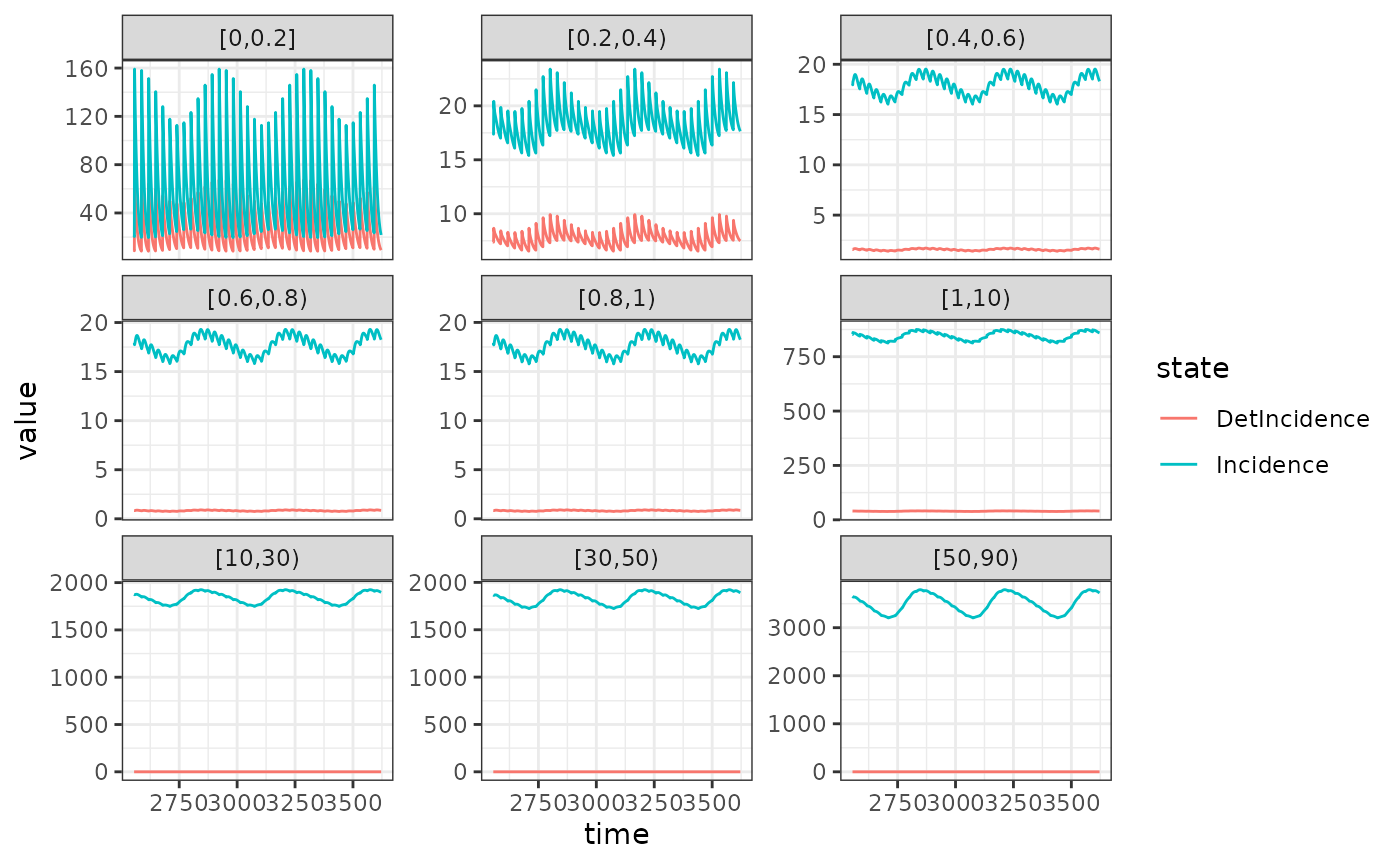
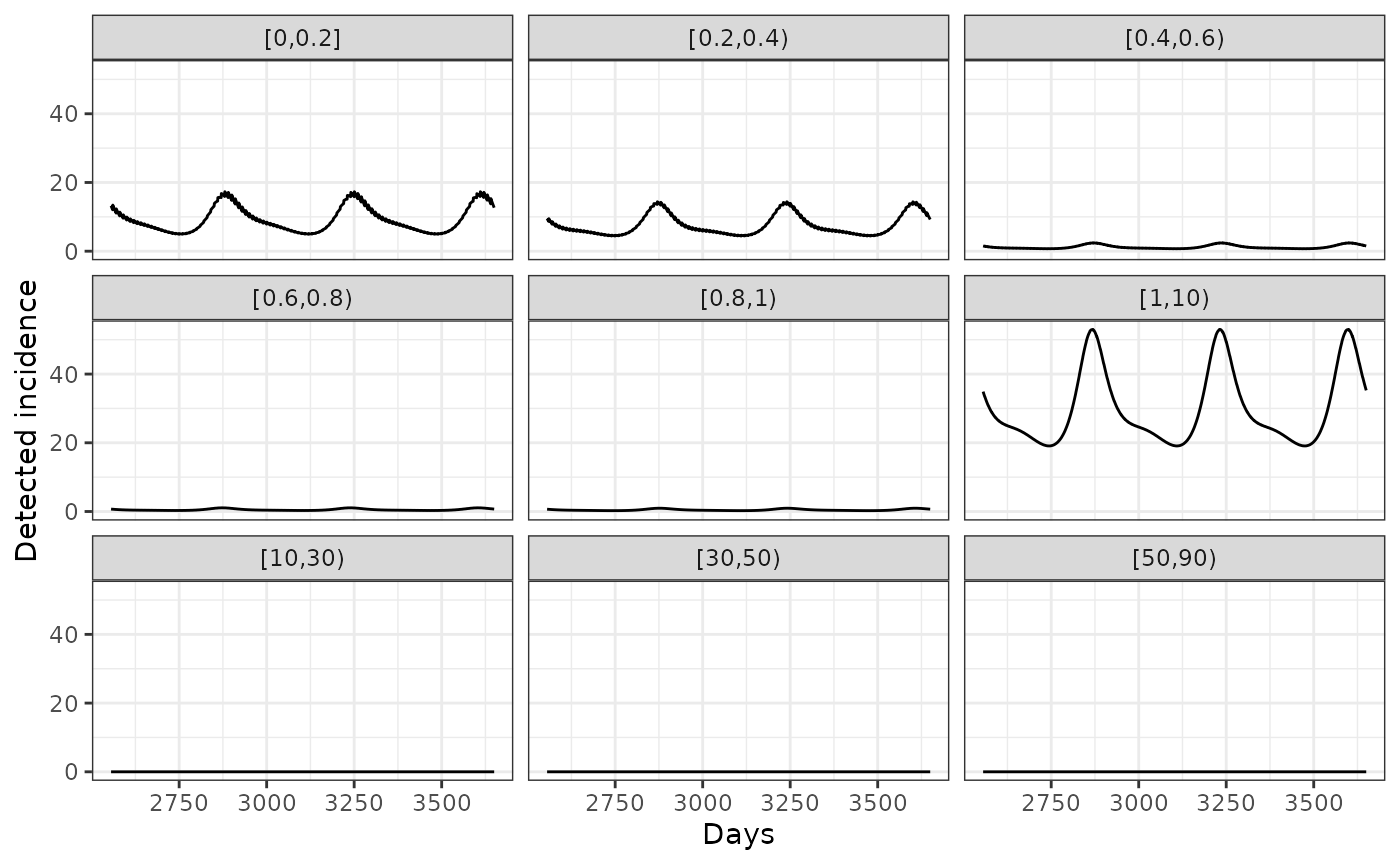
Deploying to gh-pages from @ IsaacStopard/RSVsim@35414e66334edd08820dda4a77bebf6a99fc415f 🚀

diff --git a/articles/Introduction.html b/articles/Introduction.html
@@ -125,8 +125,8 @@ contact data from and the age limits for the age groupings.</p>
 <span>  <span class="fu">tidyr</span><span class="fu">::</span><span class="fu"><a href="https://tidyr.tidyverse.org/reference/pivot_longer.html" class="external-link">pivot_longer</a></span><span class="op">(</span><span class="op">-</span><span class="va">age_y</span>, names_to <span class="op">=</span> <span class="st">"age_x"</span>, values_to <span class="op">=</span> <span class="st">"mean_contacts"</span><span class="op">)</span></span>
 <span></span>
 <span><span class="fu"><a href="https://ggplot2.tidyverse.org/reference/ggplot.html" class="external-link">ggplot</a></span><span class="op">(</span>data <span class="op">=</span> <span class="va">matrix_mean_plot</span>, </span>
-<span><span class="fu"><a href="https://ggplot2.tidyverse.org/reference/aes.html" class="external-link">aes</a></span><span class="op">(</span>x <span class="op">=</span> <span class="va">age_x</span>, y <span class="op">=</span> <span class="va">age_y</span>, fill <span class="op">=</span> <span class="va">mean_contacts</span><span class="op">)</span><span class="op">)</span> <span class="op">+</span> </span>
-<span><span class="fu"><a href="https://ggplot2.tidyverse.org/reference/geom_tile.html" class="external-link">geom_tile</a></span><span class="op">(</span><span class="op">)</span> <span class="op">+</span></span>
+<span>       <span class="fu"><a href="https://ggplot2.tidyverse.org/reference/aes.html" class="external-link">aes</a></span><span class="op">(</span>x <span class="op">=</span> <span class="va">age_x</span>, y <span class="op">=</span> <span class="va">age_y</span>, fill <span class="op">=</span> <span class="va">mean_contacts</span><span class="op">)</span><span class="op">)</span> <span class="op">+</span> </span>
+<span>  <span class="fu"><a href="https://ggplot2.tidyverse.org/reference/geom_tile.html" class="external-link">geom_tile</a></span><span class="op">(</span><span class="op">)</span> <span class="op">+</span></span>
 <span>  <span class="fu"><a href="https://ggplot2.tidyverse.org/reference/labs.html" class="external-link">xlab</a></span><span class="op">(</span><span class="st">"Age"</span><span class="op">)</span> <span class="op">+</span> <span class="fu"><a href="https://ggplot2.tidyverse.org/reference/labs.html" class="external-link">ylab</a></span><span class="op">(</span><span class="st">"Age"</span><span class="op">)</span> <span class="op">+</span> <span class="fu"><a href="https://ggplot2.tidyverse.org/reference/ggtheme.html" class="external-link">theme_bw</a></span><span class="op">(</span><span class="op">)</span></span></code></pre></div>
 <p><img src="Introduction_files/figure-html/unnamed-chunk-2-1.png" width="700"></p>
 </div>
@@ -137,7 +137,7 @@ contact data from and the age limits for the age groupings.</p>
 function. The parameters can be changed by using the overrides
 argument.</p>
 <div class="sourceCode" id="cb3"><pre class="downlit sourceCode r">
-<code class="sourceCode R"><span><span class="va">parameters</span> <span class="op">&lt;-</span> <span class="fu">RSVsim</span><span class="fu">::</span><span class="fu"><a href="../reference/get_parameters.html">get_parameters</a></span><span class="op">(</span>overrides <span class="op">=</span> <span class="fu"><a href="https://rdrr.io/r/base/list.html" class="external-link">list</a></span><span class="op">(</span><span class="st">"b0"</span> <span class="op">=</span> <span class="fl">1</span><span class="op">)</span>, </span>
+<code class="sourceCode R"><span><span class="va">parameters</span> <span class="op">&lt;-</span> <span class="fu">RSVsim</span><span class="fu">::</span><span class="fu"><a href="../reference/get_parameters.html">get_parameters</a></span><span class="op">(</span>overrides <span class="op">=</span> <span class="fu"><a href="https://rdrr.io/r/base/list.html" class="external-link">list</a></span><span class="op">(</span><span class="st">"b0"</span> <span class="op">=</span> <span class="fl">0.15</span><span class="op">)</span>, </span>
 <span>                                     contact_population_list <span class="op">=</span> <span class="va">contact_population_list</span><span class="op">)</span></span></code></pre></div>
 </div>
 <div class="section level2">
@@ -149,28 +149,45 @@ time the smallest age group has completed the time within that age
 group. If no initial conditions are given it is assumed there is one
 percent prevalence in the primary infection compartment and everyone
 else is susceptible to primary infection. All new borns are assumed to
-be susceptible to their primary infection.</p>
+be susceptible to their primary infection. Below we plot the simulated
+number of people that are susceptible and infected, with the line type
+indicating whether the infection is primary or secondary.</p>
 <div class="sourceCode" id="cb4"><pre class="downlit sourceCode r">
 <code class="sourceCode R"><span><span class="va">out</span> <span class="op">&lt;-</span> <span class="fu">RSVsim</span><span class="fu">::</span><span class="fu"><a href="../reference/run_model.html">run_model</a></span><span class="op">(</span>parameters <span class="op">=</span> <span class="va">parameters</span>,</span>
 <span>                         max_t <span class="op">=</span> <span class="fl">3650</span>, <span class="co"># maximum time to run the model for</span></span>
-<span>                         cohort_step_size <span class="op">=</span> <span class="fl">365.25</span><span class="op">/</span><span class="fl">12</span>,</span>
+<span>                         cohort_step_size <span class="op">=</span> <span class="fl">10</span>, <span class="co"># time at which to age people</span></span>
 <span>                         dt <span class="op">=</span> <span class="fl">0.5</span>, <span class="co"># time step to get model outputs for</span></span>
 <span>                         init_conds <span class="op">=</span> <span class="cn">NULL</span><span class="op">)</span></span>
 <span></span>
-<span><span class="fu"><a href="https://ggplot2.tidyverse.org/reference/ggplot.html" class="external-link">ggplot</a></span><span class="op">(</span>data <span class="op">=</span> <span class="va">out</span> <span class="op">|&gt;</span> <span class="fu">dplyr</span><span class="fu">::</span><span class="fu"><a href="https://dplyr.tidyverse.org/reference/filter.html" class="external-link">filter</a></span><span class="op">(</span><span class="va">state</span> <span class="op"><a href="https://rdrr.io/r/base/match.html" class="external-link">%in%</a></span> <span class="fu"><a href="https://rdrr.io/r/base/c.html" class="external-link">c</a></span><span class="op">(</span><span class="st">"Sp"</span>, <span class="st">"Ip"</span>, <span class="st">"Ss"</span>, <span class="st">"Is"</span><span class="op">)</span> <span class="op">&amp;</span> <span class="va">time</span> <span class="op">&gt;</span> <span class="op">(</span><span class="fl">3650</span> <span class="op">-</span> <span class="fl">365</span> <span class="op">*</span> <span class="fl">3</span><span class="op">)</span><span class="op">)</span>, </span>
-<span>       <span class="fu"><a href="https://ggplot2.tidyverse.org/reference/aes.html" class="external-link">aes</a></span><span class="op">(</span>x <span class="op">=</span> <span class="va">time</span>, y <span class="op">=</span> <span class="va">value</span>, col <span class="op">=</span> <span class="va">state</span><span class="op">)</span><span class="op">)</span> <span class="op">+</span></span>
-<span>  <span class="fu"><a href="https://ggplot2.tidyverse.org/reference/geom_path.html" class="external-link">geom_line</a></span><span class="op">(</span><span class="op">)</span> <span class="op">+</span></span>
-<span>  <span class="fu"><a href="https://ggplot2.tidyverse.org/reference/facet_wrap.html" class="external-link">facet_wrap</a></span><span class="op">(</span><span class="op">~</span><span class="va">age_chr</span>, scales <span class="op">=</span> <span class="st">"free_y"</span><span class="op">)</span> <span class="op">+</span> <span class="fu"><a href="https://ggplot2.tidyverse.org/reference/ggtheme.html" class="external-link">theme_bw</a></span><span class="op">(</span><span class="op">)</span></span></code></pre></div>
+<span><span class="fu"><a href="https://ggplot2.tidyverse.org/reference/ggplot.html" class="external-link">ggplot</a></span><span class="op">(</span>data <span class="op">=</span> <span class="va">out</span> <span class="op">|&gt;</span> <span class="fu">dplyr</span><span class="fu">::</span><span class="fu"><a href="https://dplyr.tidyverse.org/reference/filter.html" class="external-link">filter</a></span><span class="op">(</span><span class="va">time</span> <span class="op">&gt;</span> <span class="op">(</span><span class="fl">3650</span> <span class="op">-</span> <span class="fl">365</span> <span class="op">*</span> <span class="fl">3</span><span class="op">)</span><span class="op">)</span><span class="op">)</span> <span class="op">+</span></span>
+<span>  <span class="fu"><a href="https://ggplot2.tidyverse.org/reference/geom_path.html" class="external-link">geom_line</a></span><span class="op">(</span><span class="fu"><a href="https://ggplot2.tidyverse.org/reference/aes.html" class="external-link">aes</a></span><span class="op">(</span>x <span class="op">=</span> <span class="va">time</span>, y <span class="op">=</span> <span class="va">Sp</span><span class="op">)</span>, linetype <span class="op">=</span> <span class="fl">1</span><span class="op">)</span> <span class="op">+</span></span>
+<span>  <span class="fu"><a href="https://ggplot2.tidyverse.org/reference/geom_path.html" class="external-link">geom_line</a></span><span class="op">(</span><span class="fu"><a href="https://ggplot2.tidyverse.org/reference/aes.html" class="external-link">aes</a></span><span class="op">(</span>x <span class="op">=</span> <span class="va">time</span>, y <span class="op">=</span> <span class="va">Ss</span><span class="op">)</span>, linetype <span class="op">=</span> <span class="fl">2</span><span class="op">)</span> <span class="op">+</span></span>
+<span>  <span class="fu"><a href="https://ggplot2.tidyverse.org/reference/geom_path.html" class="external-link">geom_line</a></span><span class="op">(</span><span class="fu"><a href="https://ggplot2.tidyverse.org/reference/aes.html" class="external-link">aes</a></span><span class="op">(</span>x <span class="op">=</span> <span class="va">time</span>, y <span class="op">=</span> <span class="va">Ip</span><span class="op">)</span>, col <span class="op">=</span> <span class="st">"skyblue"</span>, linetype <span class="op">=</span> <span class="fl">1</span><span class="op">)</span> <span class="op">+</span></span>
+<span>  <span class="fu"><a href="https://ggplot2.tidyverse.org/reference/geom_path.html" class="external-link">geom_line</a></span><span class="op">(</span><span class="fu"><a href="https://ggplot2.tidyverse.org/reference/aes.html" class="external-link">aes</a></span><span class="op">(</span>x <span class="op">=</span> <span class="va">time</span>, y <span class="op">=</span> <span class="va">Is</span><span class="op">)</span>, col <span class="op">=</span> <span class="st">"skyblue"</span>, linetype <span class="op">=</span> <span class="fl">2</span><span class="op">)</span> <span class="op">+</span></span>
+<span>  <span class="fu"><a href="https://ggplot2.tidyverse.org/reference/facet_wrap.html" class="external-link">facet_wrap</a></span><span class="op">(</span><span class="op">~</span><span class="va">age_chr</span>, scales <span class="op">=</span> <span class="st">"free_y"</span><span class="op">)</span> <span class="op">+</span> <span class="fu"><a href="https://ggplot2.tidyverse.org/reference/ggtheme.html" class="external-link">theme_bw</a></span><span class="op">(</span><span class="op">)</span> <span class="op">+</span></span>
+<span>  <span class="fu"><a href="https://ggplot2.tidyverse.org/reference/labs.html" class="external-link">xlab</a></span><span class="op">(</span><span class="st">"Days"</span><span class="op">)</span> <span class="op">+</span></span>
+<span>  <span class="fu"><a href="https://ggplot2.tidyverse.org/reference/labs.html" class="external-link">ylab</a></span><span class="op">(</span><span class="st">"Number of susceptible (black) or infected (blue) people"</span><span class="op">)</span></span></code></pre></div>
 <p><img src="Introduction_files/figure-html/unnamed-chunk-4-1.png" width="700"></p>
-<p>The incidence and detected incidence are also calculated.
+<p>The incidence, detected incidence and prevalence are also calculated.
 Age-specific detection probabilities are used, and in the default
 parameters we assume no one is tested over the age of 2 years old.</p>
 <div class="sourceCode" id="cb5"><pre class="downlit sourceCode r">
-<code class="sourceCode R"><span><span class="fu"><a href="https://ggplot2.tidyverse.org/reference/ggplot.html" class="external-link">ggplot</a></span><span class="op">(</span>data <span class="op">=</span> <span class="va">out</span> <span class="op">|&gt;</span> <span class="fu">dplyr</span><span class="fu">::</span><span class="fu"><a href="https://dplyr.tidyverse.org/reference/filter.html" class="external-link">filter</a></span><span class="op">(</span><span class="va">state</span> <span class="op"><a href="https://rdrr.io/r/base/match.html" class="external-link">%in%</a></span> <span class="fu"><a href="https://rdrr.io/r/base/c.html" class="external-link">c</a></span><span class="op">(</span><span class="st">"Incidence"</span>, <span class="st">"DetIncidence"</span><span class="op">)</span> <span class="op">&amp;</span> <span class="va">time</span> <span class="op">&gt;</span> <span class="op">(</span><span class="fl">3650</span> <span class="op">-</span> <span class="fl">365</span> <span class="op">*</span> <span class="fl">3</span><span class="op">)</span><span class="op">)</span>, </span>
-<span>       <span class="fu"><a href="https://ggplot2.tidyverse.org/reference/aes.html" class="external-link">aes</a></span><span class="op">(</span>x <span class="op">=</span> <span class="va">time</span>, y <span class="op">=</span> <span class="va">value</span>, col <span class="op">=</span> <span class="va">state</span><span class="op">)</span><span class="op">)</span> <span class="op">+</span></span>
+<code class="sourceCode R"><span><span class="fu"><a href="https://ggplot2.tidyverse.org/reference/ggplot.html" class="external-link">ggplot</a></span><span class="op">(</span>data <span class="op">=</span> <span class="va">out</span> <span class="op">|&gt;</span> <span class="fu">dplyr</span><span class="fu">::</span><span class="fu"><a href="https://dplyr.tidyverse.org/reference/filter.html" class="external-link">filter</a></span><span class="op">(</span><span class="va">time</span> <span class="op">&gt;</span> <span class="op">(</span><span class="fl">3650</span> <span class="op">-</span> <span class="fl">365</span> <span class="op">*</span> <span class="fl">3</span><span class="op">)</span><span class="op">)</span>, </span>
+<span>       <span class="fu"><a href="https://ggplot2.tidyverse.org/reference/aes.html" class="external-link">aes</a></span><span class="op">(</span>x <span class="op">=</span> <span class="va">time</span>, y <span class="op">=</span> <span class="va">DetIncidence</span><span class="op">)</span><span class="op">)</span> <span class="op">+</span></span>
 <span>  <span class="fu"><a href="https://ggplot2.tidyverse.org/reference/geom_path.html" class="external-link">geom_line</a></span><span class="op">(</span><span class="op">)</span> <span class="op">+</span></span>
-<span>  <span class="fu"><a href="https://ggplot2.tidyverse.org/reference/facet_wrap.html" class="external-link">facet_wrap</a></span><span class="op">(</span><span class="op">~</span><span class="va">age_chr</span>, scales <span class="op">=</span> <span class="st">"free_y"</span><span class="op">)</span> <span class="op">+</span> <span class="fu"><a href="https://ggplot2.tidyverse.org/reference/ggtheme.html" class="external-link">theme_bw</a></span><span class="op">(</span><span class="op">)</span></span></code></pre></div>
+<span>  <span class="fu"><a href="https://ggplot2.tidyverse.org/reference/facet_wrap.html" class="external-link">facet_wrap</a></span><span class="op">(</span><span class="op">~</span><span class="va">age_chr</span><span class="op">)</span> <span class="op">+</span> <span class="fu"><a href="https://ggplot2.tidyverse.org/reference/ggtheme.html" class="external-link">theme_bw</a></span><span class="op">(</span><span class="op">)</span> <span class="op">+</span></span>
+<span>  <span class="fu"><a href="https://ggplot2.tidyverse.org/reference/labs.html" class="external-link">ylab</a></span><span class="op">(</span><span class="st">"Detected incidence"</span><span class="op">)</span> <span class="op">+</span></span>
+<span>  <span class="fu"><a href="https://ggplot2.tidyverse.org/reference/labs.html" class="external-link">xlab</a></span><span class="op">(</span><span class="st">"Days"</span><span class="op">)</span></span></code></pre></div>
 <p><img src="Introduction_files/figure-html/unnamed-chunk-5-1.png" width="700"></p>
+<div class="sourceCode" id="cb6"><pre class="downlit sourceCode r">
+<code class="sourceCode R"><span><span class="fu"><a href="https://ggplot2.tidyverse.org/reference/ggplot.html" class="external-link">ggplot</a></span><span class="op">(</span>data <span class="op">=</span> <span class="va">out</span> <span class="op">|&gt;</span> <span class="fu">dplyr</span><span class="fu">::</span><span class="fu"><a href="https://dplyr.tidyverse.org/reference/filter.html" class="external-link">filter</a></span><span class="op">(</span><span class="va">time</span> <span class="op">&gt;</span> <span class="op">(</span><span class="fl">3650</span> <span class="op">-</span> <span class="fl">365</span> <span class="op">*</span> <span class="fl">3</span><span class="op">)</span><span class="op">)</span>, </span>
+<span>       <span class="fu"><a href="https://ggplot2.tidyverse.org/reference/aes.html" class="external-link">aes</a></span><span class="op">(</span>x <span class="op">=</span> <span class="va">time</span>, y <span class="op">=</span> <span class="va">prev</span><span class="op">)</span><span class="op">)</span> <span class="op">+</span></span>
+<span>  <span class="fu"><a href="https://ggplot2.tidyverse.org/reference/geom_path.html" class="external-link">geom_line</a></span><span class="op">(</span><span class="op">)</span> <span class="op">+</span></span>
+<span>  <span class="fu"><a href="https://ggplot2.tidyverse.org/reference/scale_continuous.html" class="external-link">scale_y_continuous</a></span><span class="op">(</span>labels <span class="op">=</span> <span class="fu">scales</span><span class="fu">::</span><span class="va"><a href="https://scales.r-lib.org/reference/percent_format.html" class="external-link">percent</a></span><span class="op">)</span> <span class="op">+</span></span>
+<span>  <span class="fu"><a href="https://ggplot2.tidyverse.org/reference/facet_wrap.html" class="external-link">facet_wrap</a></span><span class="op">(</span><span class="op">~</span><span class="va">age_chr</span><span class="op">)</span> <span class="op">+</span> <span class="fu"><a href="https://ggplot2.tidyverse.org/reference/ggtheme.html" class="external-link">theme_bw</a></span><span class="op">(</span><span class="op">)</span> <span class="op">+</span></span>
+<span>  <span class="fu"><a href="https://ggplot2.tidyverse.org/reference/labs.html" class="external-link">ylab</a></span><span class="op">(</span><span class="st">"Prevalence"</span><span class="op">)</span> <span class="op">+</span></span>
+<span>  <span class="fu"><a href="https://ggplot2.tidyverse.org/reference/labs.html" class="external-link">xlab</a></span><span class="op">(</span><span class="st">"Days"</span><span class="op">)</span></span></code></pre></div>
+<p><img src="Introduction_files/figure-html/unnamed-chunk-6-1.png" width="700"></p>
 </div>
   </main><aside class="col-md-3"><nav id="toc" aria-label="Table of contents"><h2>On this page</h2>
     </nav></aside>

diff --git a/reference/run_model.html b/reference/run_model.html
@@ -47,8 +47,8 @@ Cohorts are aged at time intervals of the smallest age group given in <code>para
     <h2 id="ref-usage">Usage<a class="anchor" aria-label="anchor" href="#ref-usage"></a></h2>
     <div class="sourceCode"><pre class="sourceCode r"><code><span><span class="fu">run_model</span><span class="op">(</span></span>
 <span>  <span class="va">parameters</span>,</span>
-<span>  max_t <span class="op">=</span> <span class="fl">2000</span>,</span>
-<span>  cohort_step_size <span class="op">=</span> <span class="fl">365.25</span><span class="op">/</span><span class="fl">12</span>,</span>
+<span>  max_t <span class="op">=</span> <span class="fl">3650</span>,</span>
+<span>  cohort_step_size <span class="op">=</span> <span class="fl">10</span>,</span>
 <span>  dt <span class="op">=</span> <span class="fl">0.25</span>,</span>
 <span>  init_conds <span class="op">=</span> <span class="cn">NULL</span></span>
 <span><span class="op">)</span></span></code></pre></div>
